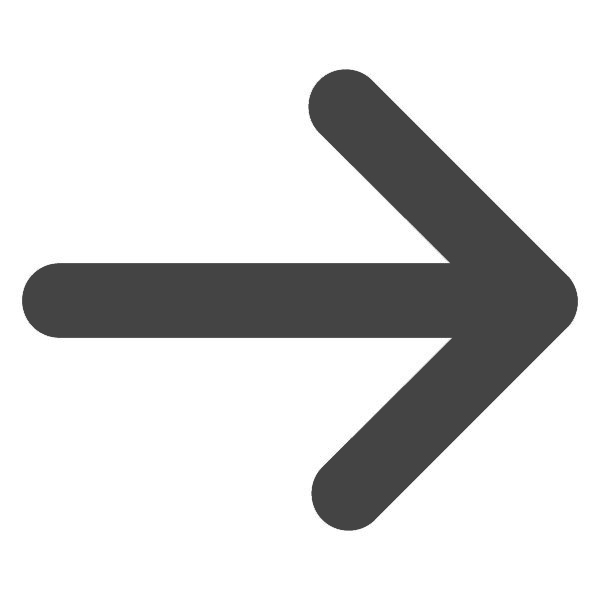
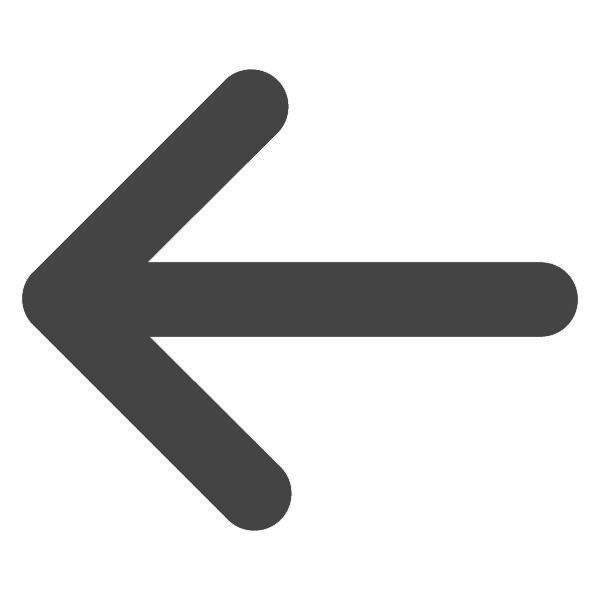
reste vom initialen druck

diff --git a/kifschild.tex b/kifschild.tex
@@ -42,75 +42,123 @@
 %\schild{qr=m.dvb.de}{Plena?}{Heinz Schönfeld Hörsaal}
 %\schild{qr=wiki.kif.kaffeehaus.ifsr.de}{Plena?}{Heinz Schönfeld Hörsaal}
 
-\schild{image=sie_haben_ihr_ziel_erreicht.png, offset-top=1cm, spacing=-2cm, upper-height=0.45, lower-height=0.25}{Plena}{Barkhausen-Bau \\ Heinz Schönfeld Hörsaal}
-\schild{image=pfeil_oben.jpg, offset-top=1cm, spacing=-2cm, upper-height=0.45, lower-height=0.25}{Plena}{Barkhausen-Bau \\ Heinz Schönfeld Hörsaal}
-\schild{image=pfeil_oben.jpg, spacing=2cm, upper-height=0.4, lower-height=.3}{AK-\\Räume}{Barkhausen-Bau \\ 106, 188, 189, \\ 213, 218}
-\schild{image=sie_haben_ihr_ziel_erreicht.png, upper-height=0.5, spacing=2cm}{AK-Raum}{Barkhausen-\\Bau 106}
-\schild{image=sie_haben_ihr_ziel_erreicht.png, upper-height=0.5, spacing=2cm}{AK-Raum}{Barkhausen-\\Bau 188}
-\schild{image=sie_haben_ihr_ziel_erreicht.png, upper-height=0.5, spacing=2cm}{AK-Raum}{Barkhausen-\\Bau 189}
-\schild{image=sie_haben_ihr_ziel_erreicht.png, upper-height=0.5, spacing=2cm}{AK-Raum}{Barkhausen-\\Bau 213}
-\schild{image=sie_haben_ihr_ziel_erreicht.png, upper-height=0.5, spacing=2cm}{AK-Raum}{Barkhausen-\\Bau 218}
-\schild{image=geradeaus_rechts.jpg, upper-height=0.5, spacing=2cm, offset-top=2cm}{Schlafen\\oder \\Duschen?\\...}{Turnhalle!}
-\schild{image=sie_haben_ihr_ziel_erreicht.png, upper-height=0.5, spacing=2cm, offset-top=2cm}{Schlafen\\oder \\Duschen?\\...}{Turnhalle!}
-\schild{image=pfeil_links.jpg, upper-height=0.5, spacing=2cm, offset-top=2cm}{Schlafen oder Schlafen?\\...}{Turnhalle 1}
-\schild{image=pfeil_rechts.jpg, upper-height=0.5, spacing=2cm, offset-top=2cm}{Schlafen oder Schlafen?\\...}{Turnhalle 2}
-\schild{image=treppe.jpg, upper-height=.5, spacing=2cm, offset-top=1cm}{Duschen \\oder Duschen?\\...}{Treppen aufwärts!}
-\schild{image=treppe.jpg, upper-height=.35, spacing=2cm, lower-height=.3}{Orga-Büro}{Andreas-Pfitzmann-\\Bau 1005}
-\schild{image=pfeil_rechts.jpg, upper-height=.35, spacing=2cm, lower-height=.3}{Orga-Büro}{Andreas-Pfitzmann-\\Bau 1005}
-\schild{image=pfeil_links.jpg, upper-height=.35, spacing=2cm, lower-height=.3}{Orga-Büro}{Andreas-Pfitzmann-\\Bau 1005}
-\schild{image=sie_haben_ihr_ziel_erreicht.png, upper-height=.35, spacing=2cm, lower-height=.3}{Orga-Büro}{Andreas-Pfitzmann-\\Bau 1005}
-\schild{image=unisex.jpg, upper-height=0.3, spacing=4cm}{Unisex-Toilette}{Andreas-\\Pfitzmann-\\Bau}
-\schild{image=unisex.jpg, upper-height=0.3, spacing=4cm}{Unisex-Toilette}{Andreas-\\Pfitzmann-\\Bau}
-\schild{image=girl.jpg, upper-height=0.3, spacing=4cm}{Binär-Toilette}{Andreas-\\Pfitzmann-\\Bau}
-\schild{image=boy.jpg, upper-height=0.3, spacing=4cm}{Binär-Toilette}{Andreas-\\Pfitzmann-\\Bau}
-\schild{image=pfeil_rechts.jpg, upper-height=0.3, lower-height=0.2, spacing=4cm}{Binär-Toilette}{Andreas-\\Pfitzmann-\\Bau}
-\schild{image=pfeil_links.jpg, upper-height=0.3, lower-height=0.2, spacing=4cm}{Unisex-Toilette}{Andreas-\\Pfitzmann-\\Bau}
-\schild{image=sie_haben_ihr_ziel_erreicht.png, upper-height=0.4, lower-height=.3, spacing=2cm}{AK-Raum}{Andreas-\\Pfitzmann-\\Bau E065}
-\schild{image=sie_haben_ihr_ziel_erreicht.png, upper-height=0.4, lower-height=.3, spacing=2cm}{AK-Raum}{Andreas-\\Pfitzmann-\\Bau E067}
-\schild{image=sie_haben_ihr_ziel_erreicht.png, upper-height=0.4, lower-height=.3, spacing=2cm}{AK-Raum}{Andreas-\\Pfitzmann-\\Bau E069}
-\schild{image=pfeil_links.jpg, upper-height=0.4, lower-height=.3, spacing=2cm}{AK-Raum}{Andreas-\\Pfitzmann-\\Bau E069}
-\schild{image=pfeil_oben.jpg, upper-height=0.4, lower-height=.3, spacing=2cm}{AK-Raum}{Andreas-\\Pfitzmann-\\Bau E069}
-\schild{image=pfeil_links.jpg, upper-height=0.4, lower-height=.3, spacing=2cm}{AK-Räume}{Andreas-\\Pfitzmann-Bau \\ E065, E065, E067}
-\schild{image=geradeaus_rechts.jpg, upper-height=0.4, lower-height=.3, spacing=2cm}{AK-Räume}{Andreas-\\Pfitzmann-Bau\\ E001, E005, \\ E006 und E010}
-\schild{image=geradeaus_links.jpg, upper-height=0.4, lower-height=.3, spacing=2cm}{AK-Räume}{Andreas-\\Pfitzmann-Bau\\ E001, E005, \\ E006 und E010}
-\schild{image=sie_haben_ihr_ziel_erreicht.png, upper-height=0.4, spacing=2cm, lower-height=.3}{AK-Raum}{Andreas-\\Pfitzmann-Bau\\ E001}
-\schild{image=sie_haben_ihr_ziel_erreicht.png, upper-height=0.4, spacing=2cm, lower-height=.3}{AK-Raum}{Andreas-\\Pfitzmann-Bau\\ E005}
-\schild{image=sie_haben_ihr_ziel_erreicht.png, upper-height=0.4, spacing=2cm, lower-height=.3}{AK-Raum}{Andreas-\\Pfitzmann-Bau\\ E006}
-\schild{image=sie_haben_ihr_ziel_erreicht.png, upper-height=0.4, spacing=2cm, lower-height=.3}{AK-Raum}{Andreas-\\Pfitzmann-Bau\\ E010}
-\schild{image=sie_haben_ihr_ziel_erreicht.png, upper-height=0.4, spacing=1cm, offset-top=1cm}{Kasse des\\Vertrauens}{Ascii\\ E016}
-\schild{image=pfeil_rechts.jpg, upper-height=0.4, spacing=1cm, offset-top=1cm}{Kasse des\\Vertrauens}{Ascii\\ E016}
-\schild{image=pfeil_oben.jpg, upper-height=0.4, spacing=1cm, offset-top=1cm}{Kasse des\\Vertrauens}{Ascii\\ E016}
-\schild{image=tee.png, upper-height=.25, lower-height=0.3, spacing=2cm}{AK-Tee}{Andreas-\\Pfitzmann-\\Bau E007}
-\schild{image=geradeaus_rechts.jpg, upper-height=.25, lower-height=0.3, spacing=2cm}{AK-Tee}{Andreas-\\Pfitzmann-\\Bau E007}
-\schild{image=geradeaus_links.jpg, upper-height=.25, lower-height=0.3, spacing=2cm}{AK-Tee}{Andreas-\\Pfitzmann-\\Bau E007}
-\schild{image=geradeaus_rechts.jpg, upper-height=.25, lower-height=0.3, spacing=2cm}{Ewiges Frühstück}{Andreas-\\Pfitzmann-\\Bau E008}
-\schild{image=pfeil_oben.jpg, upper-height=.25, lower-height=0.3, spacing=2cm}{Ewiges Frühstück}{Andreas-\\Pfitzmann-\\Bau E008}
-\schild{image=breakfast.png, upper-height=.25, lower-height=0.3, spacing=2cm}{Ewiges Frühstück}{Andreas-\\Pfitzmann-\\Bau E008}
-\schild{image=coffee.jpg, upper-height=.35, lower-height=0.3, spacing=2cm}{Kif-\\Café}{Andreas-\\Pfitzmann-\\Bau E023}
-\schild{image=geradeaus_rechts.jpg, upper-height=.35, lower-height=0.3, spacing=2cm}{Kif-\\Café}{Andreas-\\Pfitzmann-\\Bau E023}
-\schild{image=geradeaus_links.jpg, upper-height=.35, lower-height=0.3, spacing=2cm}{Kif-\\Café}{Andreas-\\Pfitzmann-\\Bau E023}
-\schild{image=geradeaus_rechts.jpg, upper-height=.35, lower-height=0.3, spacing=2cm}{Kif-\\Café}{Andreas-\\Pfitzmann-\\Bau E023}
-\schild{image=geradeaus_links.jpg, upper-height=.35, lower-height=0.3, spacing=2cm}{Kif-\\Café}{Andreas-\\Pfitzmann-\\Bau E023}
-\schild{image=geradeaus_links.jpg, upper-height=.25, lower-height=0.3, spacing=1cm}{Infopoint}{Andreas-\\Pfitzmann-\\Bau E017}
-\schild{image=geradeaus_links.jpg, upper-height=.25, lower-height=0.3, spacing=1cm}{Infopoint}{Andreas-\\Pfitzmann-\\Bau E017}
-\schild{image=fsr.jpg, upper-height=.25, lower-height=0.3, spacing=1cm}{Infopoint}{Andreas-\\Pfitzmann-\\Bau E017}
-\schild{image=boobles.jpg, upper-height=.4, lower-height=0.15, spacing=2cm}{Die berühmten\\Boobles}{Rate doch mal was wir sind!}
-\schild{image=teich.jpg, upper-height=.25, lower-height=0.3, spacing=2cm}{Teich}{aka Gebäudekühlanlage}
-\schild{image=geraderechts, upper-height=.25, lower-height=0.3, spacing=2cm}{Teich}{aka Gebäudekühlanlage}
-\schild{image=geradelinks.png, upper-height=.25, lower-height=0.3, spacing=2cm}{Teich}{aka Gebäudekühlanlage}
-\schild{image=pfeil_oben.jpg, upper-height=.25, lower-height=0.3, spacing=2cm}{Teich}{aka Gebäudekühlanlage}
-\schild{image=anmeldung_1.jpg, upper-height=0.3, lower-height=.15, spacing=4cm}{Badge Ausgabe}{Tickets und Geld bereithalten}
-\schild{image=anmeldung_2.jpg, upper-height=0.3, lower-height=.15, spacing=4cm}{Textil Ausgabe}{Tickets und Geld bereithalten}
-\schild{image=anmeldung_3.jpg, upper-height=0.3, lower-height=.15, spacing=4cm}{BMBF Listen}{Name suchen und unterschreiben}
-\schild{image=anmeldung_4.jpg, upper-height=0.3, lower-height=.15, spacing=4cm}{Mensa Karten}{Geld oder Badge für Pfand bereithalten}
-\schild{image=anmeldung_5.jpg, upper-height=0.3, lower-height=.15, spacing=4cm}{Grillgut Umfrage}{Grillgut auswählen}
-\schild{image=anmeldung_6.jpg, upper-height=0.3, lower-height=.15, spacing=4cm}{Beutel Ausgabe}{Goodiebag selbst zusammenstellen}
+% Funktionszeug
+% \schild{image=Ausrufezeichen.png, upper-height=0.3, lower-height=.15, spacing=4cm}{Bitte nicht zu laut sein}{Hier arbeiten Menschen}
+% \schild{image=fridge.png, upper-height=0.3, lower-height=.15, spacing=4cm}{Kühlschrank leer?}{Erzähl's dem \\Infodesk}
+% \schild{image=bottle.png, upper-height=0.3, lower-height=.15, spacing=4cm}{Bottle Drop Point}{Gib hier deine leere Flasche ab}
 
-\schild{image=Ausrufezeichen.png, upper-height=0.3, lower-height=.15, spacing=4cm}{Bitte nicht zu laut sein}{Hier arbeiten Menschen}
-\schild{image=twitter.jpg, upper-height=0.3, lower-height=.15, spacing=4cm}{Bitte nicht twittern}{Keep the goodies\\ a secret}
-\schild{image=fridge.png, upper-height=0.3, lower-height=.15, spacing=4cm}{Kühlschrank leer?}{Erzähl's dem \\Infodesk}
-\schild{image=paper.png, upper-height=0.3, lower-height=.15, spacing=4cm}{Papier leer?}{Erzähl's dem \\Infodesk}
-\schild{image=bottle.png, upper-height=0.3, lower-height=.15, spacing=4cm}{Bottle Drop Point}{Gib hier deine leere Flasche ab}
+% APB Teich
+% \schild{image=pfeil_rechts.jpg, upper-height=.25, lower-height=0.3, spacing=2cm}{Teich}{aka Gebäudekühlanlage}
+% \schild{image=teich.jpg, upper-height=.25, lower-height=0.3, spacing=2cm}{Teich}{aka Gebäudekühlanlage}
 
+% APB Infopoint
+% \schild{image=pfeil_oben.jpg, upper-height=.25, lower-height=0.3, spacing=1cm}{Infopoint}{Andreas-\\Pfitzmann-\\Bau E017}
+% \schild{image=geradeaus_links.jpg, upper-height=.25, lower-height=0.3, spacing=1cm}{Infopoint}{Andreas-\\Pfitzmann-\\Bau E017}
+% \schild{image=geradeaus_links.jpg, upper-height=.25, lower-height=0.3, spacing=1cm}{Infopoint}{Andreas-\\Pfitzmann-\\Bau E017}
+% \schild{image=fsr.jpg, upper-height=.25, lower-height=0.3, spacing=1cm}{Infopoint}{Andreas-\\Pfitzmann-\\Bau E017}
+
+% APB KIF-Cafe
+% \schild{image=pfeil_oben.jpg, upper-height=.35, lower-height=0.3, spacing=2cm}{Kif-\\Café}{Andreas-\\Pfitzmann-\\Bau E023}
+% \schild{image=geradeaus_rechts.jpg, upper-height=.35, lower-height=0.3, spacing=2cm}{Kif-\\Café}{Andreas-\\Pfitzmann-\\Bau E023}
+% \schild{image=coffee.jpg, upper-height=.35, lower-height=0.3, spacing=2cm}{Kif-\\Café}{Andreas-\\Pfitzmann-\\Bau E023}
+% \schild{image=coffee.jpg, upper-height=.35, lower-height=0.3, spacing=2cm}{Kif-\\Café}{Andreas-\\Pfitzmann-\\Bau E023}
+
+% APB Ewiges Frühstück
+% \schild{image=pfeil_links.jpg, upper-height=.25, lower-height=0.3, spacing=2cm}{Ewiges Frühstück}{Andreas-\\Pfitzmann-\\Bau E008}
+% \schild{image=geradeaus_rechts.jpg, upper-height=.25, lower-height=0.3, spacing=2cm}{Ewiges Frühstück}{Andreas-\\Pfitzmann-\\Bau E008}
+% \schild{image=pfeil_oben.jpg, upper-height=.25, lower-height=0.3, spacing=2cm}{Ewiges Frühstück}{Andreas-\\Pfitzmann-\\Bau E008}
+% \schild{image=breakfast.png, upper-height=.25, lower-height=0.3, spacing=2cm}{Ewiges Frühstück}{Andreas-\\Pfitzmann-\\Bau E008}
+
+% APB AK-Tee
+% \schild{image=pfeil_links.jpg, upper-height=.25, lower-height=0.3, spacing=2cm}{AK-Tee}{Andreas-\\Pfitzmann-\\Bau E009}
+% \schild{image=geradeaus_rechts.jpg, upper-height=.25, lower-height=0.3, spacing=2cm}{AK-Tee}{Andreas-\\Pfitzmann-\\Bau E009}
+% \schild{image=geradeaus_links.jpg, upper-height=.25, lower-height=0.3, spacing=2cm}{AK-Tee}{Andreas-\\Pfitzmann-\\Bau E009}
+% \schild{image=tee.png, upper-height=.25, lower-height=0.3, spacing=2cm}{AK-Tee}{Andreas-\\Pfitzmann-\\Bau E009}
+
+% APB KdV ASCII
+% \schild{image=pfeil_oben.jpg, upper-height=0.4, spacing=1cm, offset-top=1cm}{Kasse des\\Vertrauens}{Ascii\\ E016}
+% \schild{image=geradeaus_links.jpg, upper-height=0.4, spacing=1cm, offset-top=1cm}{Kasse des\\Vertrauens}{Ascii\\ E016}
+% \schild{image=geradeaus_links.jpg, upper-height=0.4, spacing=1cm, offset-top=1cm}{Kasse des\\Vertrauens}{Ascii\\ E016}
+% \schild{image=sie_haben_ihr_ziel_erreicht.png, upper-height=0.4, spacing=1cm, offset-top=1cm}{Kasse des\\Vertrauens}{Ascii\\ E016}
+
+% APB Orga Büro
+% \schild{image=treppe.jpg, upper-height=.35, spacing=2cm, lower-height=.3}{Orga-Büro}{Andreas-Pfitzmann-\\Bau 1005}
+% \schild{image=pfeil_rechts.jpg, upper-height=.35, spacing=2cm, lower-height=.3}{Orga-Büro}{Andreas-Pfitzmann-\\Bau 1005}
+% \schild{image=pfeil_links.jpg, upper-height=.35, spacing=2cm, lower-height=.3}{Orga-Büro}{Andreas-Pfitzmann-\\Bau 1005}
+% \schild{image=sie_haben_ihr_ziel_erreicht.png, upper-height=.35, spacing=2cm, lower-height=.3}{Orga-Büro}{Andreas-Pfitzmann-\\Bau 1005}
+
+% APB Toiletten
+% \schild{image=unisex.jpg, upper-height=0.3, spacing=4cm}{Unisex-Toilette}{Andreas-\\Pfitzmann-\\Bau}
+% \schild{image=unisex.jpg, upper-height=0.3, spacing=4cm}{Unisex-Toilette}{Andreas-\\Pfitzmann-\\Bau}
+% \schild{image=girl.jpg, upper-height=0.3, spacing=4cm}{Binär-Toilette}{Andreas-\\Pfitzmann-\\Bau}
+% \schild{image=boy.jpg, upper-height=0.3, spacing=4cm}{Binär-Toilette}{Andreas-\\Pfitzmann-\\Bau}
+% \schild{image=pfeil_rechts.jpg, upper-height=0.3, lower-height=0.2, spacing=4cm}{Binär-Toilette}{Andreas-\\Pfitzmann-\\Bau}
+% \schild{image=pfeil_links.jpg, upper-height=0.3, lower-height=0.2, spacing=4cm}{Unisex-Toilette}{Andreas-\\Pfitzmann-\\Bau}
+
+% APB AK Räume
+% \schild{image=pfeil_rechts.jpg, upper-height=0.4, lower-height=.3, spacing=2cm}{AK-Räume}{Andreas-\\Pfitzmann-Bau \\ E065, E065, E067}
+% \schild{image=pfeil_oben.jpg, upper-height=0.4, lower-height=.3, spacing=2cm}{AK-Raum}{Andreas-\\Pfitzmann-\\Bau E065}
+% \schild{image=pfeil_oben.jpg, upper-height=0.4, lower-height=.3, spacing=2cm}{AK-Raum}{Andreas-\\Pfitzmann-\\Bau E067}
+% \schild{image=sie_haben_ihr_ziel_erreicht.png, upper-height=0.4, lower-height=.3, spacing=2cm}{AK-Raum}{Andreas-\\Pfitzmann-Bau\\ E065}
+% \schild{image=sie_haben_ihr_ziel_erreicht.png, upper-height=0.4, lower-height=.3, spacing=2cm}{AK-Raum}{Andreas-\\Pfitzmann-Bau\\ E067}
+% \schild{image=sie_haben_ihr_ziel_erreicht.png, upper-height=0.4, lower-height=.3, spacing=2cm}{AK-Raum}{Andreas-\\Pfitzmann-Bau\\ E069}
+% \schild{image=pfeil_oben.jpg, upper-height=0.4, lower-height=.3, spacing=2cm}{AK-Raum}{Andreas-\\Pfitzmann-Bau\\ E001}
+% \schild{image=geradeaus_rechts.jpg, upper-height=0.4, lower-height=.3, spacing=2cm}{AK-Räume}{Andreas-\\Pfitzmann-Bau\\ E005, E006 \\und E010}
+% \schild{image=geradeaus_links.jpg, upper-height=0.4, lower-height=.3, spacing=2cm}{AK-Räume}{Andreas-\\Pfitzmann-Bau\\ E001, E005, \\ E006 und E010}
+\schild{image=pfeil_links.jpg, upper-height=0.4, lower-height=.3, spacing=2cm}{AK-Räume}{Andreas-\\Pfitzmann-Bau\\ E001, E005, \\ E006 und E010}
+% \schild{image=sie_haben_ihr_ziel_erreicht.png, upper-height=0.4, spacing=2cm, lower-height=.3}{AK-Raum}{Andreas-\\Pfitzmann-Bau\\ E001}
+% \schild{image=sie_haben_ihr_ziel_erreicht.png, upper-height=0.4, spacing=2cm, lower-height=.3}{AK-Raum}{Andreas-\\Pfitzmann-Bau\\ E005}
+% \schild{image=sie_haben_ihr_ziel_erreicht.png, upper-height=0.4, spacing=2cm, lower-height=.3}{AK-Raum}{Andreas-\\Pfitzmann-Bau\\ E006}
+% \schild{image=sie_haben_ihr_ziel_erreicht.png, upper-height=0.4, spacing=2cm, lower-height=.3}{AK-Raum}{Andreas-\\Pfitzmann-Bau\\ E010}
+
+% BAR Plena
+% \schild{image=pfeil_oben.jpg, offset-top=1cm, spacing=-2cm, upper-height=0.45, lower-height=0.25}{Plena}{Barkhausen-Bau \\ Heinz Schönfeld Hörsaal}
+% \schild{image=pfeil_links.jpg, offset-top=1cm, spacing=-2cm, upper-height=0.45, lower-height=0.25}{Plena}{Barkhausen-Bau \\ Heinz Schönfeld Hörsaal}
+% \schild{image=sie_haben_ihr_ziel_erreicht.png, offset-top=1cm, spacing=-2cm, upper-height=0.45, lower-height=0.25}{Plena}{Barkhausen-Bau \\ Heinz Schönfeld Hörsaal}
+
+% BAR Ak Räume
+% \schild{image=pfeil_oben.jpg, spacing=2cm, upper-height=0.4, lower-height=.3}{AK-\\Räume}{Barkhausen-Bau \\ 106, 188, 189, \\ 213, 218}
+% \schild{image=sie_haben_ihr_ziel_erreicht.png, upper-height=0.5, spacing=2cm}{AK-Raum}{Barkhausen-\\Bau 106}
+% \schild{image=sie_haben_ihr_ziel_erreicht.png, upper-height=0.5, spacing=2cm}{AK-Raum}{Barkhausen-\\Bau 188}
+% \schild{image=sie_haben_ihr_ziel_erreicht.png, upper-height=0.5, spacing=2cm}{AK-Raum}{Barkhausen-\\Bau 189}
+% \schild{image=sie_haben_ihr_ziel_erreicht.png, upper-height=0.5, spacing=2cm}{AK-Raum}{Barkhausen-\\Bau 213}
+% \schild{image=sie_haben_ihr_ziel_erreicht.png, upper-height=0.5, spacing=2cm}{AK-Raum}{Barkhausen-\\Bau 218}
+
+% Turnhallen Wege 
+% \schild{image=geradeaus_rechts.jpg, upper-height=0.5, spacing=2cm, offset-top=2cm}{Schlafen\\oder \\Duschen?\\...}{Turnhalle!}
+% \schild{image=pfeil_rechts.jpg, upper-height=0.5, spacing=2cm, offset-top=2cm}{Schlafen\\oder \\Duschen?\\...}{Turnhalle!}
+% \schild{image=sie_haben_ihr_ziel_erreicht.png, upper-height=0.5, spacing=2cm, offset-top=2cm}{Schlafen\\oder \\Duschen?\\...}{Turnhalle!}
+% \schild{image=pfeil_links.jpg, upper-height=0.5, spacing=2cm, offset-top=2cm}{Schlafen oder Schlafen?\\...}{Turnhalle 2}
+% \schild{image=pfeil_rechts.jpg, upper-height=0.5, spacing=2cm, offset-top=2cm}{Schlafen oder Schlafen?\\...}{Turnhalle 1}
+
+% Turnhallen Duschen
+% \schild{image=treppe.jpg, upper-height=.5, spacing=2cm, offset-top=1cm}{Duschen \\oder Duschen?\\...}{Treppen aufwärts!}
+% \schild{image=pfeil_links.jpg, offset-top=1cm, upper-height=0.4, spacing=2cm, lower-height=0.25}{M}{Duschen \\ 109-112}
+% \schild{image=sie_haben_ihr_ziel_erreicht.png, offset-top=1cm, upper-height=0.4, spacing=2cm, lower-height=0.25}{M}{Duschen \\ 109}
+% \schild{image=sie_haben_ihr_ziel_erreicht.png, offset-top=1cm, upper-height=0.4, spacing=2cm, lower-height=0.25}{M}{Duschen \\ 110}
+% \schild{image=sie_haben_ihr_ziel_erreicht.png, offset-top=1cm, upper-height=0.4, spacing=2cm, lower-height=0.25}{M}{Duschen \\ 111}
+% \schild{image=sie_haben_ihr_ziel_erreicht.png, offset-top=1cm, upper-height=0.4, spacing=2cm, lower-height=0.25}{M}{Duschen \\ 112}
+% \schild{image=pfeil_rechts.jpg, offset-top=1cm, upper-height=0.4, spacing=2cm, lower-height=0.25}{W}{Duschen \\ 101-104}
+% \schild{image=sie_haben_ihr_ziel_erreicht.png, offset-top=1cm, upper-height=0.4, spacing=2cm, lower-height=0.25}{W}{Duschen \\ 101}
+% \schild{image=sie_haben_ihr_ziel_erreicht.png, offset-top=1cm, upper-height=0.4, spacing=2cm, lower-height=0.25}{W}{Duschen \\ 102}
+% \schild{image=sie_haben_ihr_ziel_erreicht.png, offset-top=1cm, upper-height=0.4, spacing=2cm, lower-height=0.25}{W}{Duschen \\ 103}
+% \schild{image=sie_haben_ihr_ziel_erreicht.png, offset-top=1cm, upper-height=0.4, spacing=2cm, lower-height=0.25}{W}{Duschen \\ 104}
+% \schild{image=unisex.jpg, offset-top=1cm, upper-height=0.4, lower-height=0.25}{Unisex}{Duschen \\ 105-108}
+% \schild{image=sie_haben_ihr_ziel_erreicht.png, offset-top=1cm, upper-height=0.4, lower-height=0.25}{Unisex}{Duschen \\ 105}
+% \schild{image=sie_haben_ihr_ziel_erreicht.png, offset-top=1cm, upper-height=0.4, lower-height=0.25}{Unisex}{Duschen \\ 106}
+% \schild{image=sie_haben_ihr_ziel_erreicht.png, offset-top=1cm, upper-height=0.4, lower-height=0.25}{Unisex}{Duschen \\ 107}
+% \schild{image=sie_haben_ihr_ziel_erreicht.png, offset-top=1cm, upper-height=0.4, lower-height=0.25}{Unisex}{Duschen \\ 108}
+
+% Tunrhallen Funktion
+% \schild{image=pfeil_rechts.jpg, upper-height=0.45, spacing=2cm, offset-top=2cm}{Schuhe ausziehen\\...}{sonst Radiergummi!}
+% \schild{image=sie_haben_ihr_ziel_erreicht.png, upper-height=0.5, offset-top=1cm, lower-height=0.3}{In den Turnhallen\\...}{Absolutes Glasflaschen-\\verbot}
+
+% Anmeldung
+% \schild{image=anmeldung_1.jpg, upper-height=0.3, lower-height=.15, spacing=4cm}{Badge Ausgabe}{Tickets und Geld bereithalten}
+% \schild{image=anmeldung_2.jpg, upper-height=0.3, lower-height=.15, spacing=4cm}{Textil Ausgabe}{Tickets und Geld bereithalten}
+% \schild{image=anmeldung_3.jpg, upper-height=0.3, lower-height=.15, spacing=4cm}{BMBF Listen}{Name suchen und unterschreiben}
+% \schild{image=anmeldung_4.jpg, upper-height=0.3, lower-height=.15, spacing=4cm}{Mensa Karten}{Geld oder Badge für Pfand bereithalten}
+% \schild{image=anmeldung_5.jpg, upper-height=0.3, lower-height=.15, spacing=4cm}{Grillgut Umfrage}{Grillgut auswählen}
+% \schild{image=anmeldung_6.jpg, upper-height=0.3, lower-height=.15, spacing=4cm}{Beutel Ausgabe}{Goodiebag selbst zusammenstellen}
 
 \end{document}
